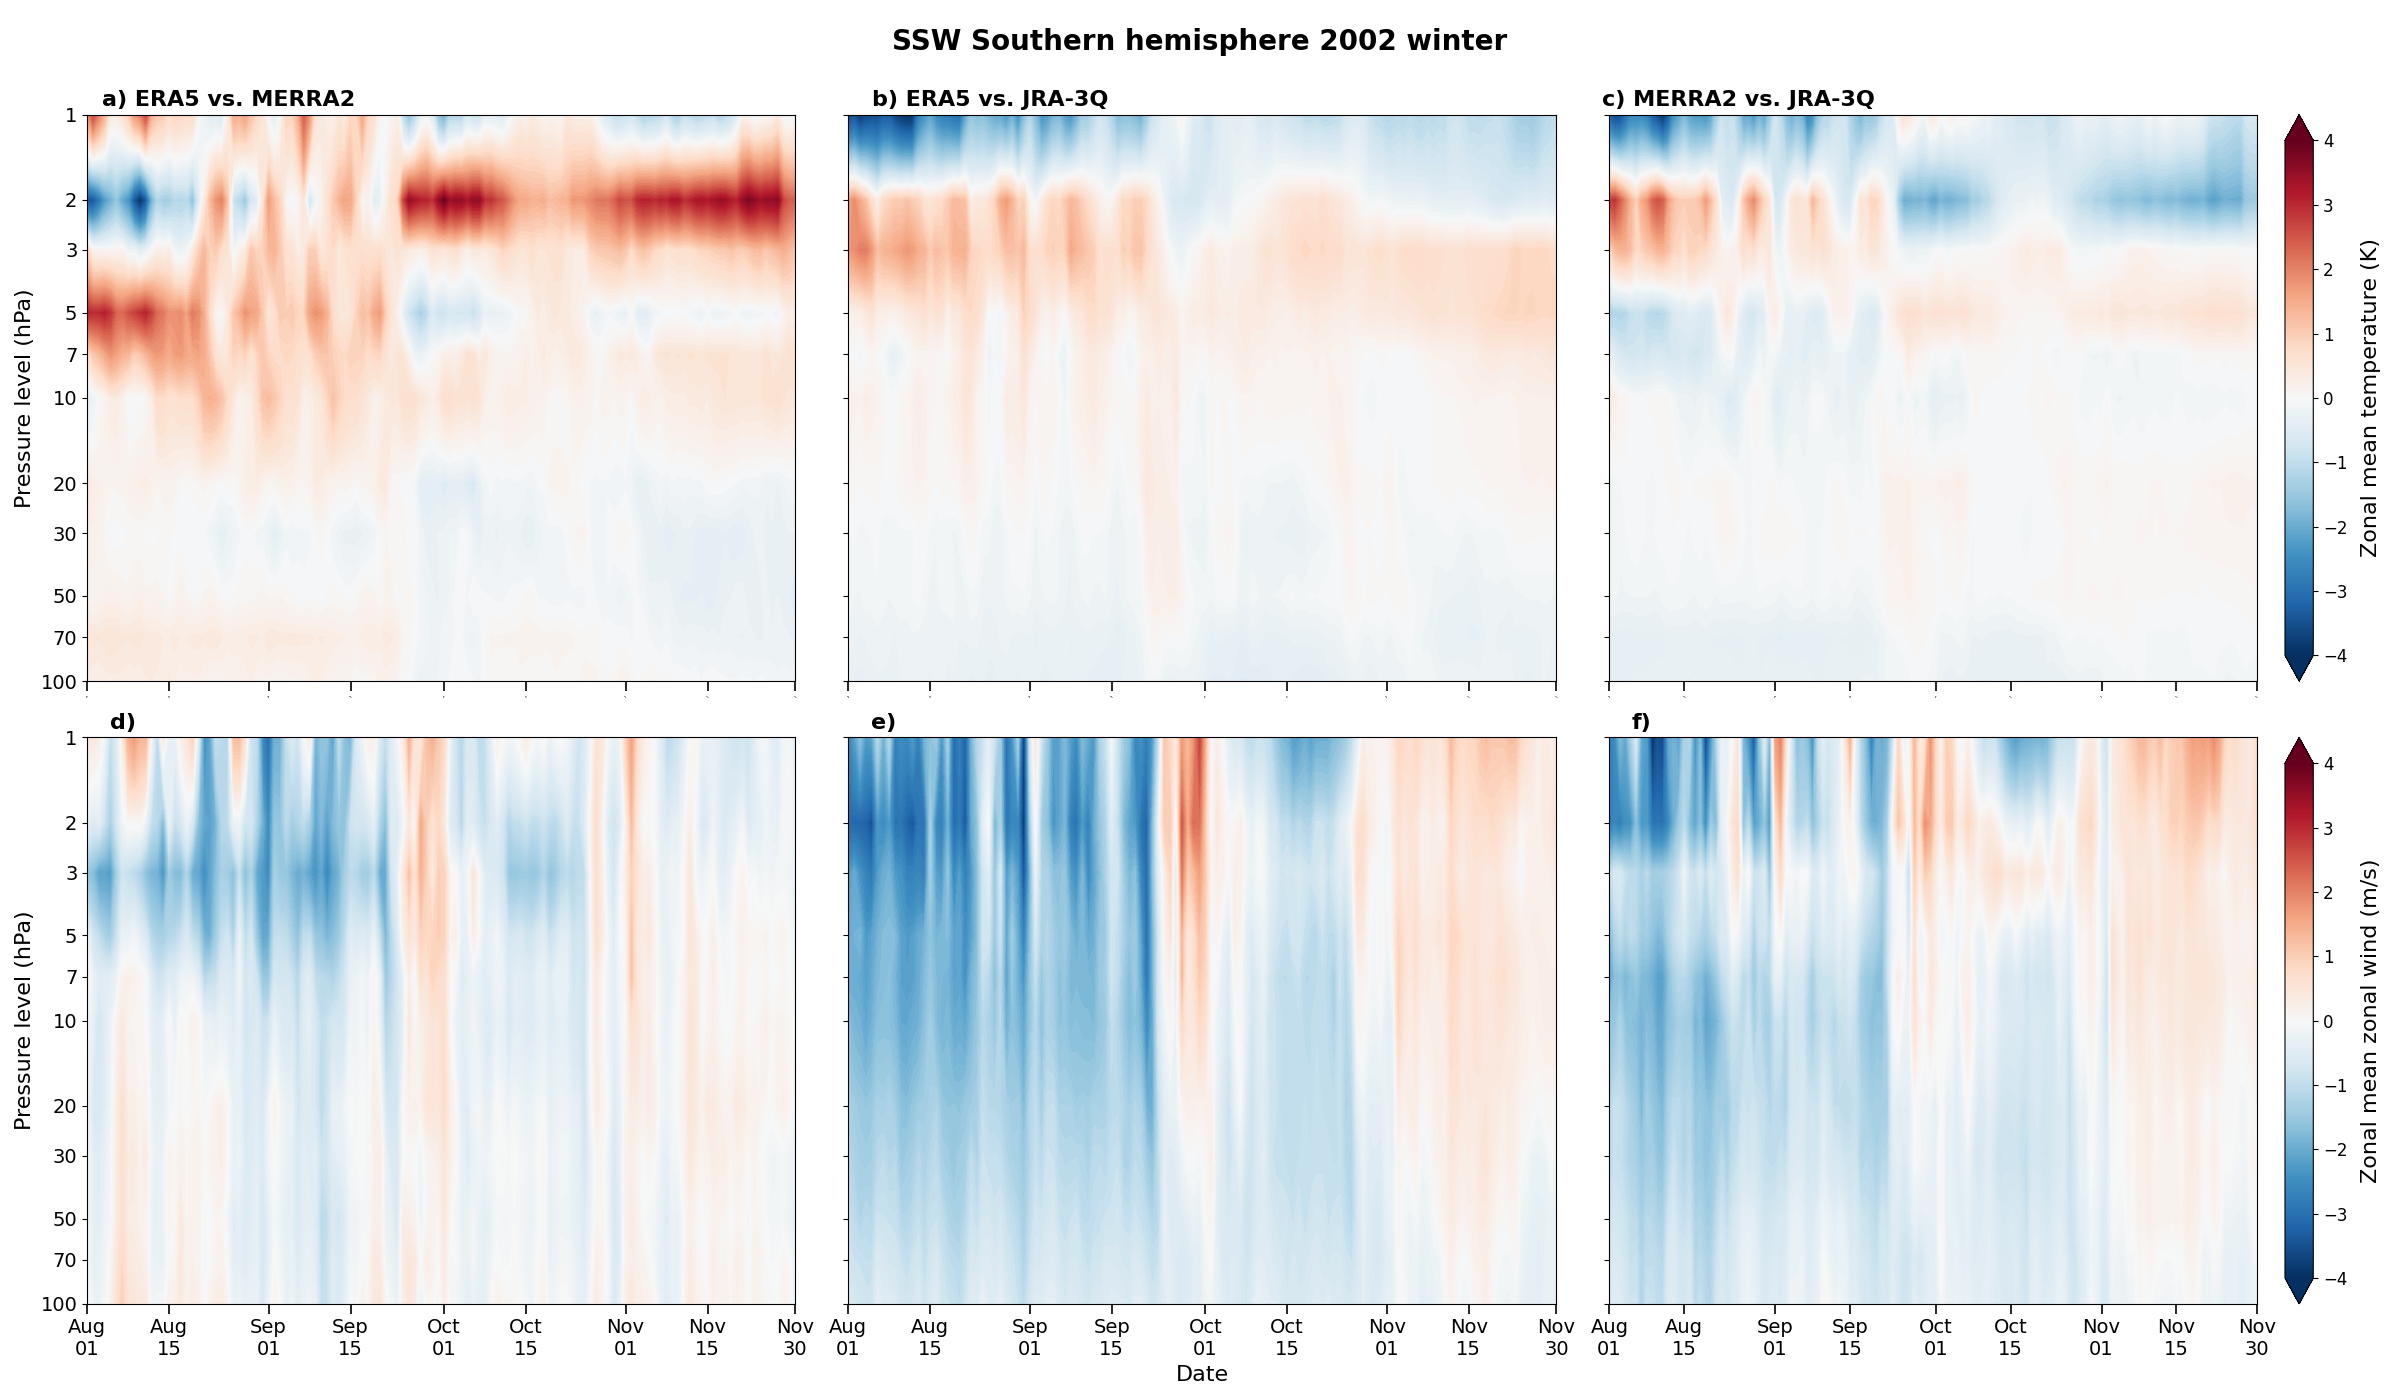
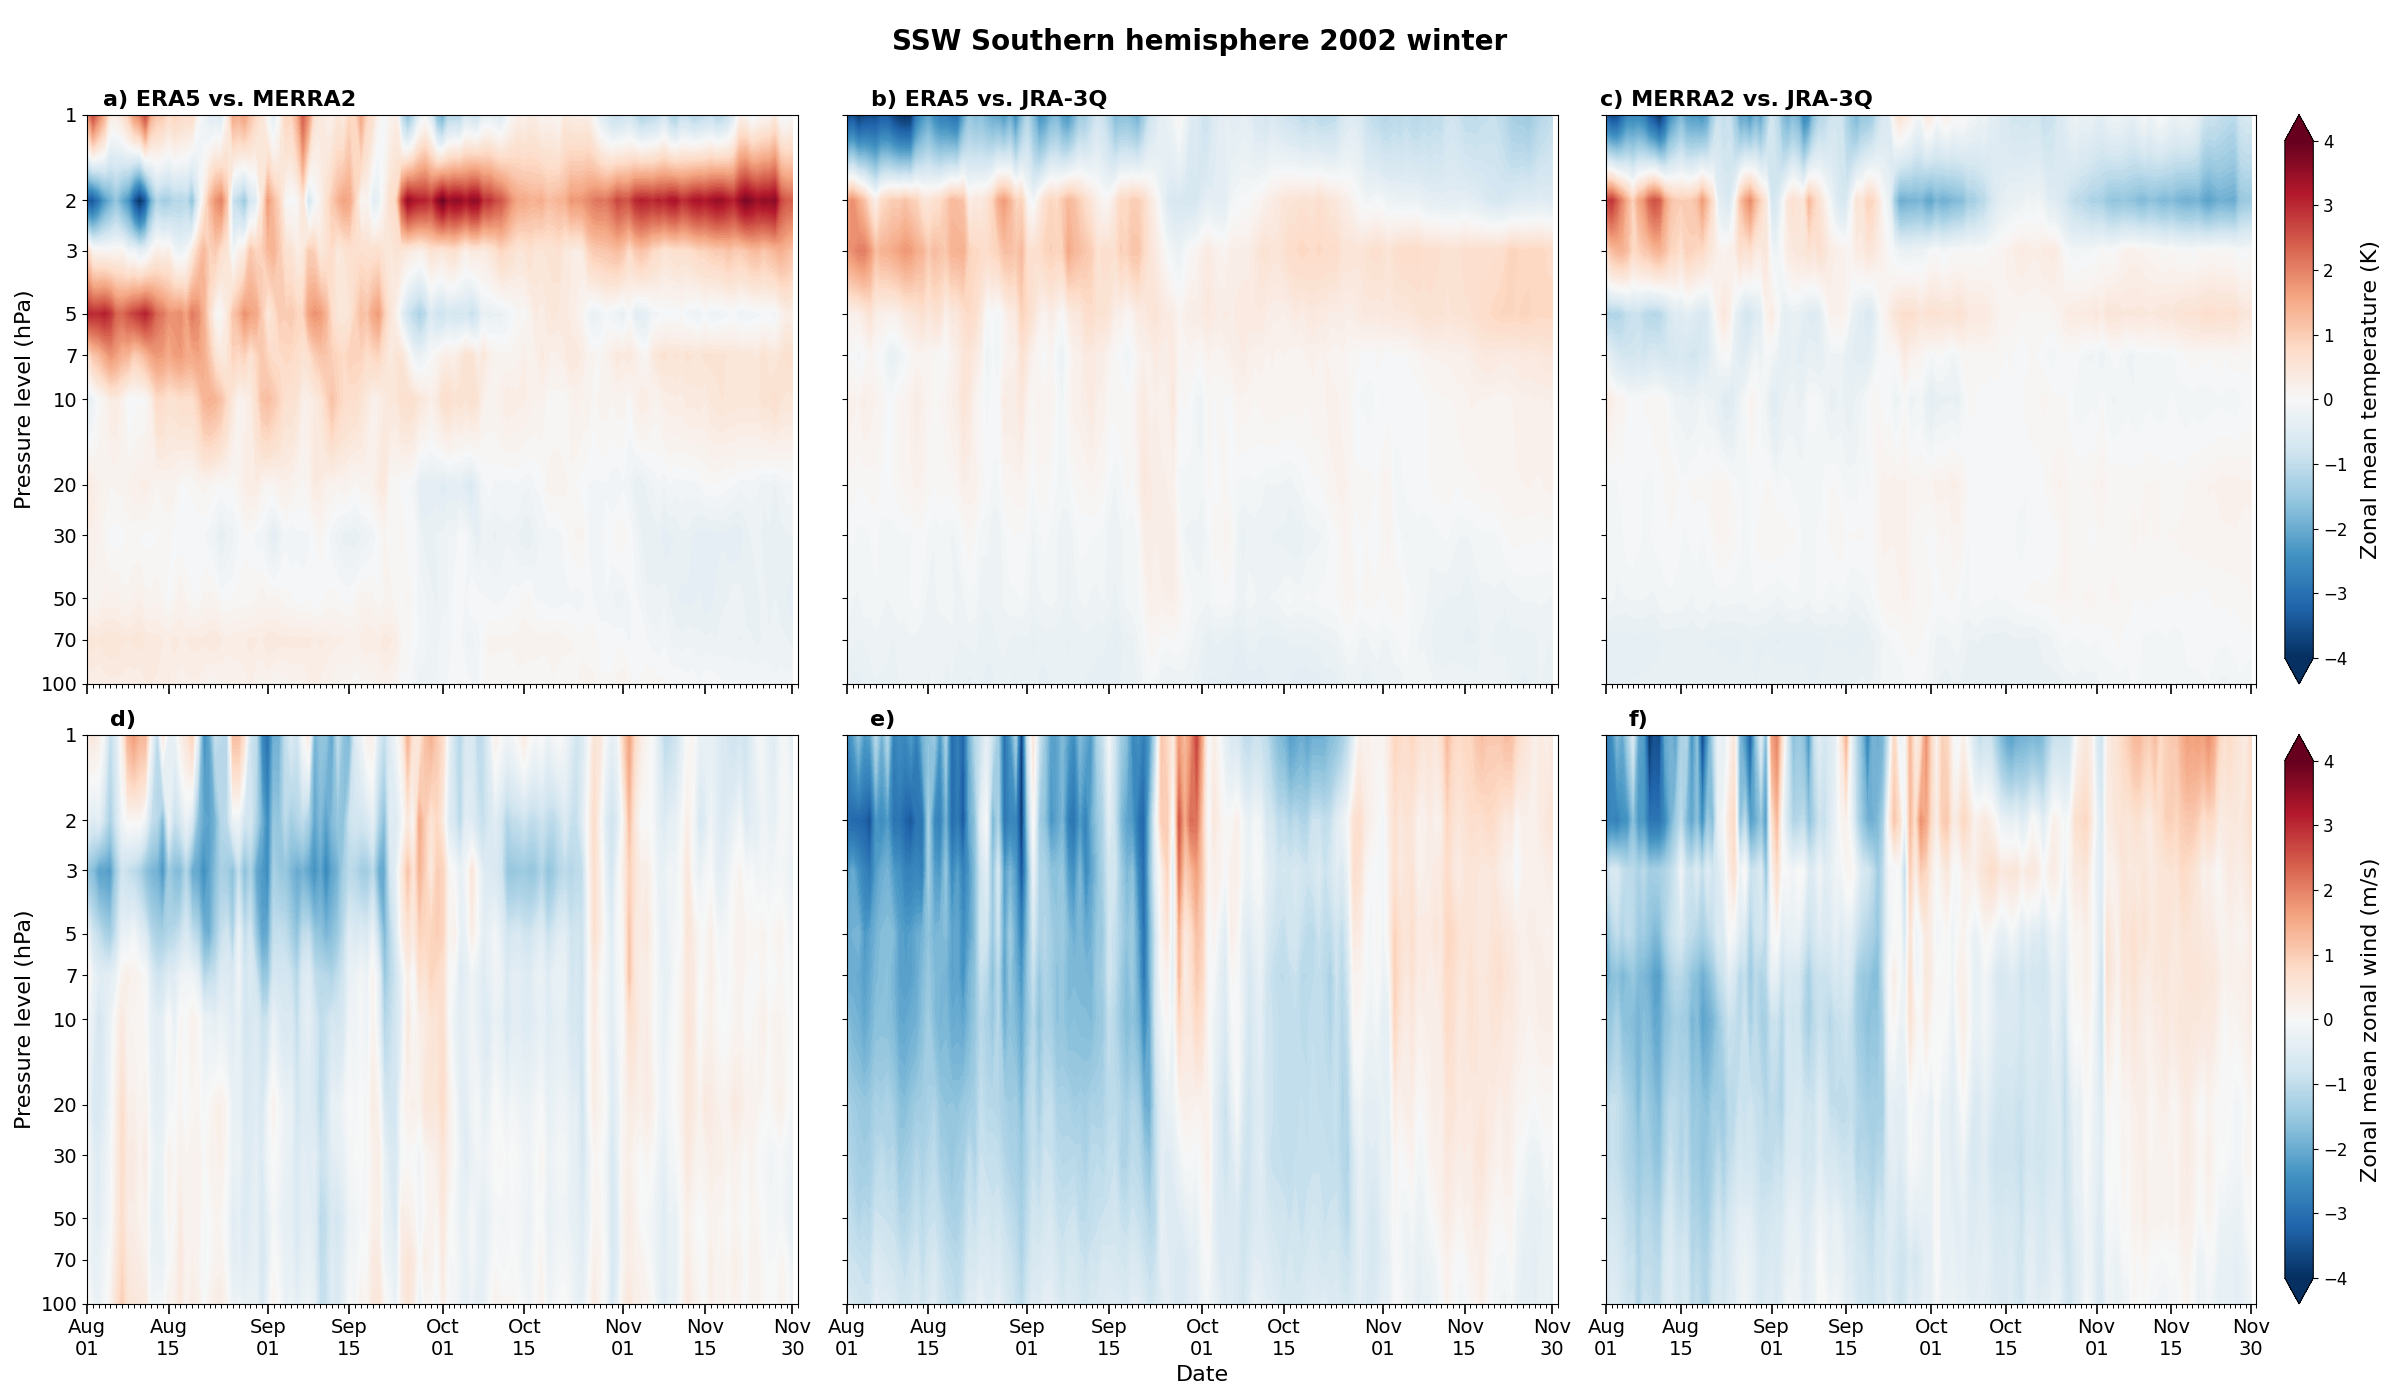
Fixed errors with minor ticks

diff --git a/graphs.py b/graphs.py
@@ -18,7 +18,7 @@ def vykresli(ax, data, title, xlabels, ylabels, vmin=None, vmax=None, cmap='RdBu
 
     ax.set_yscale('log')
     ax.invert_yaxis()
-    ax.yaxis.set_minor_locator(mpl.ticker.NullLocator())  # ← vypne minor ticks
+    ax.yaxis.set_minor_locator(mpl.ticker.NullLocator())
 
     if p == 1 or p == 4:
         ax.set_ylabel("Pressure level (hPa)", fontsize=16)
@@ -29,14 +29,6 @@ def vykresli(ax, data, title, xlabels, ylabels, vmin=None, vmax=None, cmap='RdBu
         ax.set_yticks(y)
         ax.set_yticklabels([])
 
-    if p == 1 or p == 2 or p == 3:
-        ax.set_title(title, fontsize=16, weight='bold')
-        ax.set_xticks([])
-        ax.set_xticklabels([])
-    if p == 4 or p == 5 or p == 6:
-        if p == 5:
-            ax.set_xlabel("Date", fontsize=16)
-
     xticks = []
     xticklabels = []
     for i, label in enumerate(xlabels):
@@ -44,21 +36,25 @@ def vykresli(ax, data, title, xlabels, ylabels, vmin=None, vmax=None, cmap='RdBu
         if day in (1, 15) or i == len(xlabels) - 1:
             xticks.append(i)
             xticklabels.append(format_date_label(label))
-
     ax.set_xticks(xticks)
-    ax.set_xticklabels(xticklabels, fontsize=14 if p in (4, 5, 6) else 0)
+    minor_xticks = list(range(len(xlabels) + 1))
+    ax.set_xticks(minor_xticks, minor=True)
 
     if p in (1, 2, 3):
+        ax.set_xticklabels([])
+        ax.tick_params(axis='x', which='minor', length=3, width=0.7)
+        ax.tick_params(axis='x', which='major', length=7, width=1.2)
         if d:
             ax.set_title(title, fontsize=16, weight='bold', x=0.2)
         else:
             ax.set_title(title, fontsize=16, weight='bold', x=0.1)
-        ax.tick_params(axis='x', which='both', length=7, width=1.2)
     if p in (4, 5, 6):
         ax.set_title(title, fontsize=16, weight='bold', x=0.05)
         if p == 5:
             ax.set_xlabel("Date", fontsize=16)
-        ax.tick_params(axis='x', which='both', length=7, width=1.2)
+        ax.set_xticklabels(xticklabels, fontsize=14)
+        ax.tick_params(axis='x', which='minor', length=3, width=0.7)
+        ax.tick_params(axis='x', which='major', length=7, width=1.2)
 
     if p == 6 and not d:
         sm = mpl.cm.ScalarMappable(norm=mpl.colors.Normalize(-70,70), cmap=cmap)
